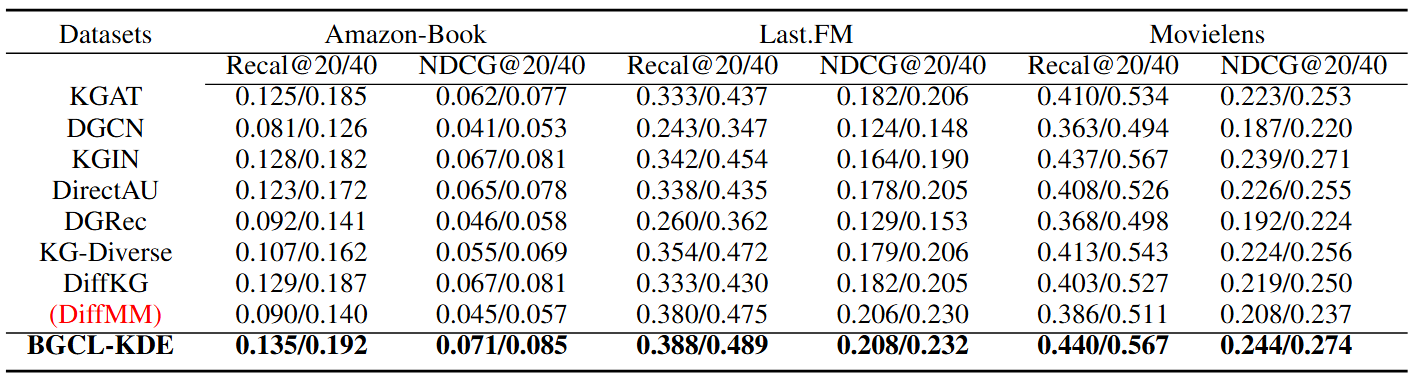
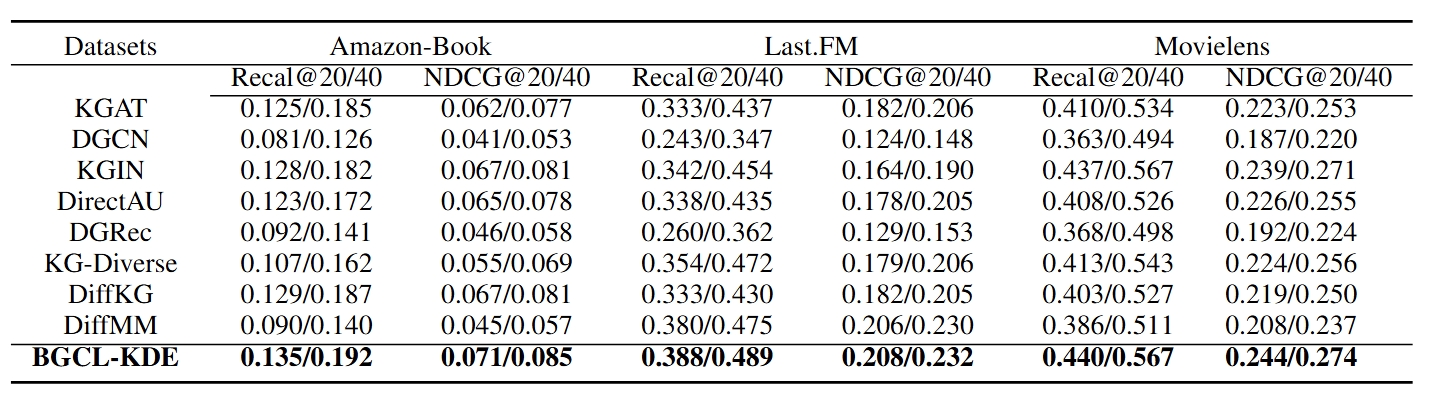
Add files via upload

diff --git a/README.md b/README.md
@@ -83,3 +83,7 @@ python Main.py --data movie --e_loss 0.1 --temp 0.5 --ssl_reg 0.01 --mess_dropou
 Performance comparison of baselines on different datasets in terms of Recall@20 and NDCG@20:
 
 ![](./performance.png)
+
+## Acknowledgements
+
+We are particularly grateful to the authors of [DiffKG](https://arxiv.org/pdf/2312.16890.pdf)  and [KG-Diverse](https://dl.acm.org/doi/10.1145/3616855.3635803), as parts of our code implementation were derived from their work. We have cited the relevant references in our paper.
